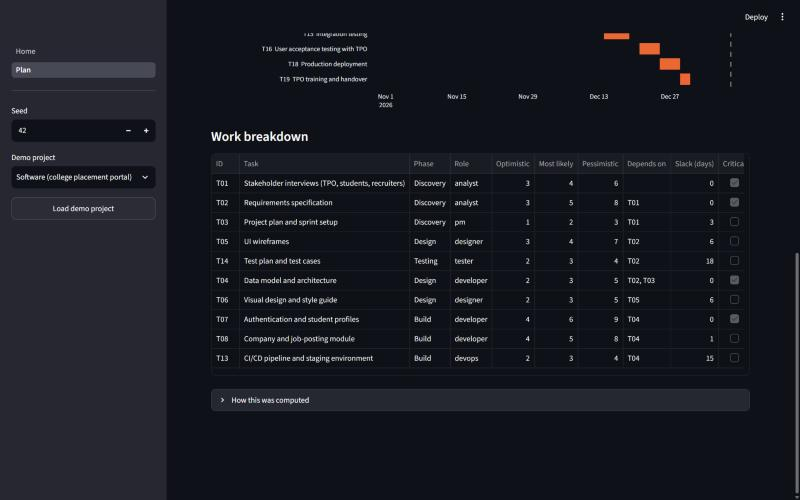
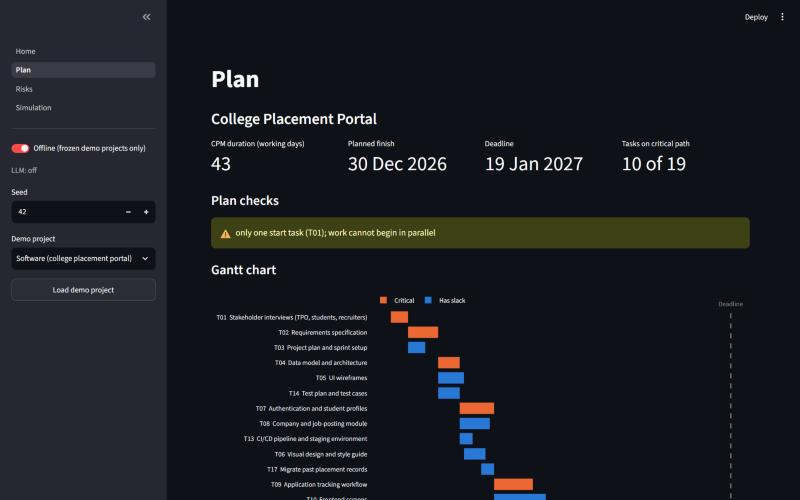
MVP fixes: safe JSON-mode fallback, live Home warnings, fresh screenshots

diff --git a/app/Home.py b/app/Home.py
@@ -3,6 +3,7 @@ from datetime import date, timedelta
 import streamlit as st
 
 from planpilot.config import PRESETS
+from planpilot.engine.schedule import check_plan
 from planpilot.llm.chains import plan_chain
 from planpilot.llm.client import LLMError
 from planpilot.ui import is_offline, llm_client, sidebar
@@ -40,11 +41,10 @@ if st.button(
 ):
     with st.spinner("Drafting the work breakdown and checking it…"):
         try:
-            new_project, warnings = plan_chain(llm_client(), env, brief, start, deadline)
-            st.session_state["project"] = new_project
-            st.session_state["generation"] = {"warnings": warnings, "error": None}
+            st.session_state["project"], _ = plan_chain(llm_client(), env, brief, start, deadline)
+            st.session_state["generation"] = {"error": None}
         except LLMError as e:
-            st.session_state["generation"] = {"warnings": [], "error": str(e)}
+            st.session_state["generation"] = {"error": str(e)}
     project = st.session_state.get("project")
 
 gen = st.session_state.get("generation")
@@ -55,8 +55,9 @@ elif gen and project is not None:
         f"Generated **{project.name}**: {len(project.tasks)} tasks in "
         f"{len({t.phase for t in project.tasks})} phases. It passed validation and the plan checks."
     )
-    for w in gen["warnings"]:
+    for w in check_plan(project)[1]:  # live, so it reflects risks added later
         st.warning(w, icon="⚠")
     st.page_link("pages/1_Plan.py", label="Open the plan", icon="📋")
+    st.page_link("pages/2_Risks.py", label="Draft its risks", icon="⚠")
 elif project is not None:
     st.info(f"Current project: **{project.name}** (demo). Open Plan or Simulation in the sidebar.")

diff --git a/planpilot/llm/client.py b/planpilot/llm/client.py
@@ -82,16 +82,16 @@ class OpenAITransport:
         if self._json_mode.get(provider, True):
             kwargs["response_format"] = {"type": "json_object"}
 
-        for waited in (False, True):
+        waited = False
+        while True:
             try:
                 r = self._client(provider).chat.completions.create(**kwargs)
                 break
             except openai.BadRequestError as e:
                 if "response_format" in kwargs and "response_format" in str(e).lower():
-                    self._json_mode[provider] = False
+                    self._json_mode[provider] = False  # provider has no JSON mode: plain text
                     kwargs.pop("response_format")
-                    r = self._client(provider).chat.completions.create(**kwargs)
-                    break
+                    continue
                 raise LLMError(f"{provider}: {e}") from e
             except openai.RateLimitError as e:
                 msg = str(e)
@@ -99,6 +99,7 @@ class OpenAITransport:
                     raise DailyQuotaExceeded(f"{provider}: {msg}") from e
                 if waited:
                     raise LLMError(f"{provider} rate limit: {msg}") from e
+                waited = True
                 time.sleep(_retry_after(msg))
             except openai.APIError as e:
                 raise LLMError(f"{provider}: {e}") from e

diff --git a/PLAN.md b/PLAN.md
@@ -245,4 +245,5 @@ Windows pitfalls: always `open(..., encoding="utf-8")` and `Path.read_text(encod
 - P5: the cache key uses the initial prompt; only responses that pass every check are stored, and a cache hit is re-checked. Offline mode raises before the cache lookup and before any client is built.
 - P6: `risk_chain` rebuilds the `Project` with the drafted register (`with_risks`), so unknown task ids or owner roles raise and are retried; fewer than 8 or more than 12 risks is also a retry error.
 - P6: risk levels in `engine/risks.py`: probability bands <=0.1/0.3/0.5/0.7/above and impact bands <=1/3/5/10/above working days; score = P level x I level (1-25); expected delay = p x impact days. The Risks page compares the simulation with and without the register (same seed).
+- MVP check: the Gemini fallback (`models/gemini-flash-lite-latest`) ran live: it accepts `response_format` JSON mode and produced a valid 17-task plan after 1 retry. It used 8 phases although the prompt asks for 4-6; `check_plan` does not enforce the phase count (not in section 7).
 - P5: known limitation: the LLM cannot pin an event date (e.g. "fest in late January"); tasks are scheduled as early as dependencies allow.
